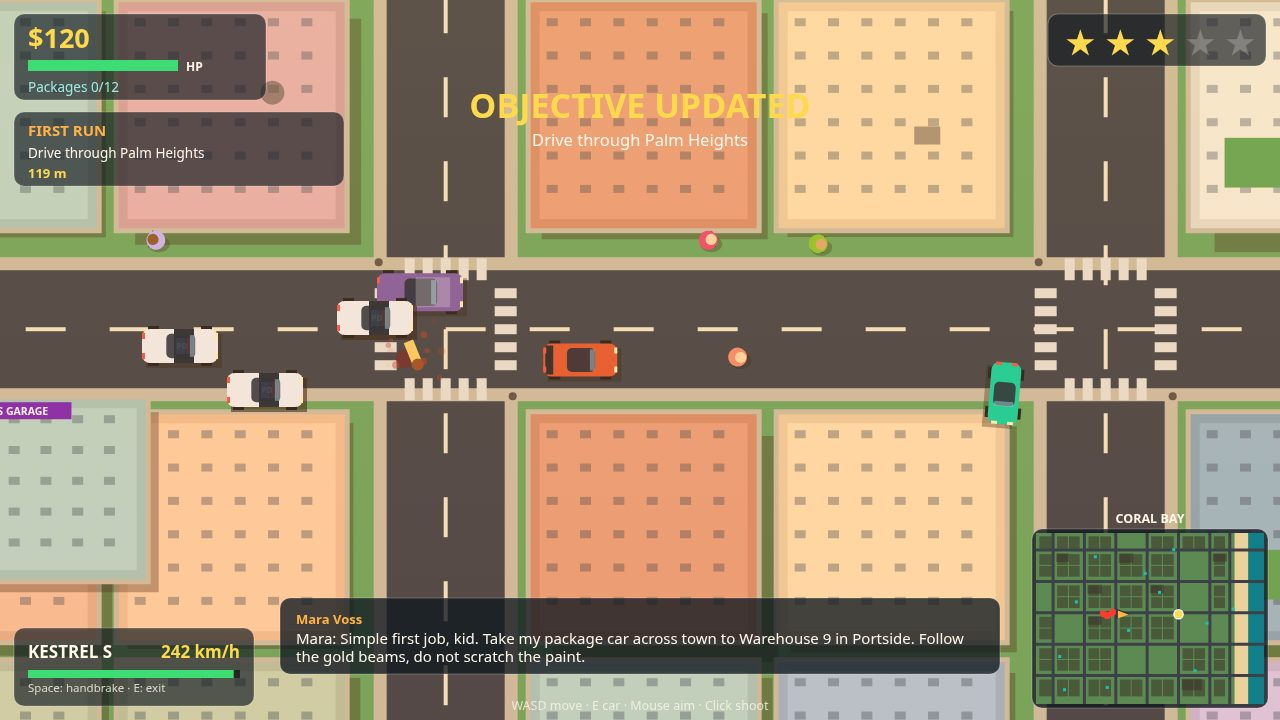
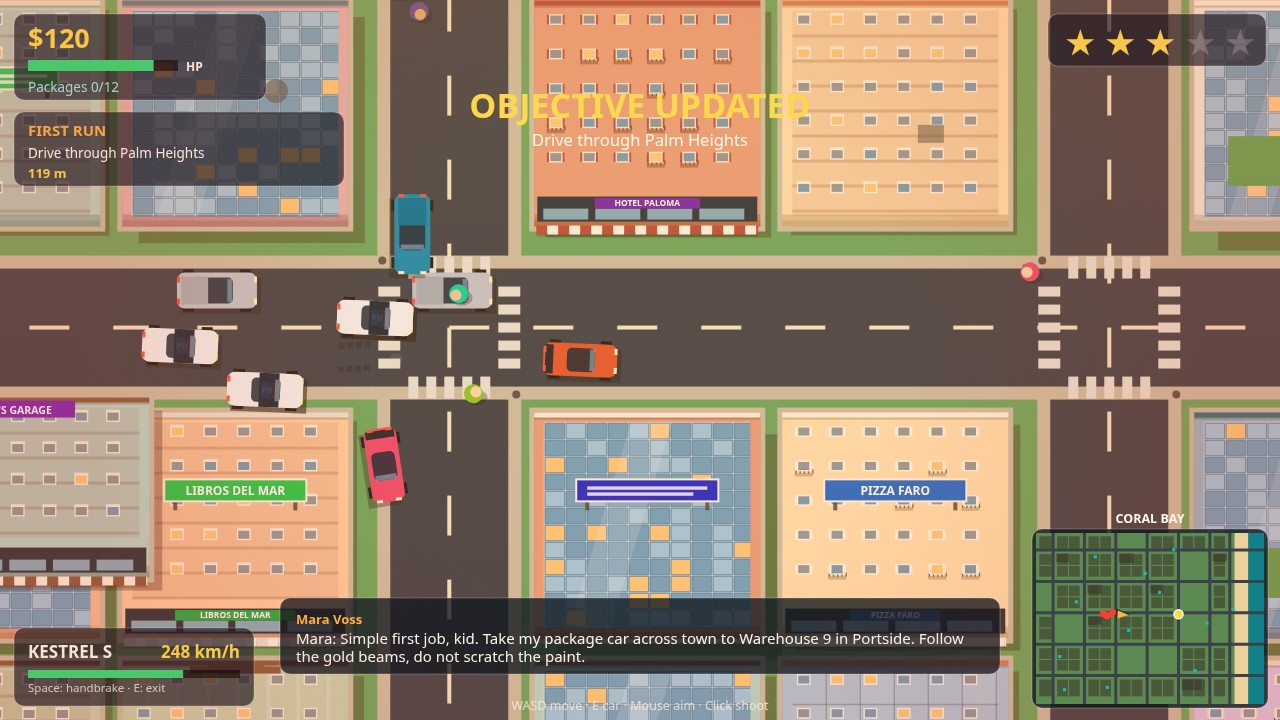
Façade richness + traffic flow pass: styled buildings, shopfronts, beach props, proportional traffic following

diff --git a/game/src/render.js b/game/src/render.js
@@ -112,23 +112,172 @@ export function createRenderer(canvas) {
     }
   }
 
+  // Per-window / per-pane variety from a position hash — deterministic,
+  // no rng, no wall clock.
+  function winHash(x, y) {
+    let h = (Math.floor(x) * 374761393 + Math.floor(y) * 668265263) | 0;
+    h = Math.imul(h ^ (h >>> 13), 1274126177);
+    return (h ^ (h >>> 16)) >>> 0;
+  }
+
+  function drawProps(state, l, t, r, b) {
+    for (const prop of state.city.props || []) {
+      if (prop.x < l - 60 || prop.x > r + 60 || prop.y < t - 60 || prop.y > b + 60) continue;
+      if (prop.kind === 'umbrella') {
+        // Towel beside the umbrella.
+        ctx.save();
+        ctx.translate(prop.x + prop.towelSide * 17, prop.y + 13);
+        ctx.rotate(prop.towelAngle);
+        rect(-13, -6, 26, 12, `hsl(${prop.towelHue} 65% 62%)`);
+        rect(-13, -2, 26, 4, 'rgba(255,255,255,0.55)');
+        ctx.restore();
+        circle(prop.x + 3, prop.y + 4, 13, 'rgba(60,35,20,0.22)');
+        circle(prop.x, prop.y, 13, `hsl(${prop.hue} 78% 58%)`);
+        ctx.fillStyle = 'rgba(255,255,255,0.5)';
+        ctx.beginPath();
+        ctx.moveTo(prop.x, prop.y - 13);
+        ctx.lineTo(prop.x + 11, prop.y + 7);
+        ctx.lineTo(prop.x - 11, prop.y + 7);
+        ctx.fill();
+        circle(prop.x, prop.y, 3.4, '#ffffff');
+      } else if (prop.kind === 'boat') {
+        ctx.save();
+        ctx.translate(prop.x, prop.y);
+        ctx.rotate(prop.angle);
+        ctx.fillStyle = 'rgba(10,50,60,0.3)';
+        ctx.beginPath(); ctx.ellipse(3, 4, prop.len / 2, 10, 0, 0, Math.PI * 2); ctx.fill();
+        ctx.fillStyle = `hsl(${prop.hue} 55% 88%)`;
+        ctx.beginPath(); ctx.ellipse(0, 0, prop.len / 2, 9.5, 0, 0, Math.PI * 2); ctx.fill();
+        ctx.fillStyle = `hsl(${prop.hue} 70% 52%)`;
+        ctx.fillRect(-prop.len / 2 + 3, -2.2, prop.len - 6, 4.4);
+        rect(-6, -5, 15, 10, '#f4f1e8');
+        rect(-3, -3.4, 6, 6.8, 'rgba(40,80,110,0.8)');
+        ctx.restore();
+      }
+    }
+  }
+
   function drawBuildings(state, l, t, r, b) {
+    const night = state.phase === PHASE_NIGHT;
     for (const bd of state.city.buildings) {
       if (bd.x + bd.w < l - 60 || bd.x > r + 60 || bd.y + bd.h < t - 60 || bd.y > b + 60) continue;
       const sh = 6 + bd.height * 0.16;
       rect(bd.x + sh, bd.y + sh, bd.w, bd.h, 'rgba(60,35,20,0.35)');
       rect(bd.x - 5, bd.y - 5, bd.w + 10, bd.h + 10, PALETTE.sidewalk);
-      rect(bd.x, bd.y, bd.w, bd.h, bd.color);
-      const inset = 9;
-      rect(bd.x + inset, bd.y + inset, bd.w - inset * 2, bd.h - inset * 2, shade(bd.color, 18));
-      // Window grid; lit gold at night.
-      const cols = Math.max(2, Math.floor(bd.w / 34));
-      const rows = Math.max(2, Math.floor(bd.h / 34));
-      for (let cx = 0; cx < cols; cx += 1) {
-        for (let cy = 0; cy < rows; cy += 1) {
-          const lit = ((cx * 7 + cy * 13 + bd.windows) % 5) === 0;
-          ctx.fillStyle = state.phase === PHASE_NIGHT && lit ? '#ffd873' : 'rgba(40,60,80,0.35)';
-          ctx.fillRect(bd.x + 16 + cx * ((bd.w - 26) / cols), bd.y + 16 + cy * ((bd.h - 26) / rows), 11, 8);
+      // Two-tone body: deeper base, lighter upper field.
+      rect(bd.x, bd.y, bd.w, bd.h, shade(bd.color, -16));
+      rect(bd.x, bd.y, bd.w, bd.h - 12, shade(bd.color, 16));
+      // Cornice along the top edge, plinth along the bottom.
+      rect(bd.x, bd.y, bd.w, 5, bd.trim);
+      rect(bd.x, bd.y + 5, bd.w, 2, 'rgba(0,0,0,0.18)');
+      rect(bd.x, bd.y + bd.h - 6, bd.w, 6, shade(bd.color, -34));
+
+      const shopH = bd.shop ? 30 : 0;
+      const fx = bd.x + 10; const fy = bd.y + 10;
+      const fw = bd.w - 20; const fh = bd.h - 20 - shopH;
+      const style = bd.style || 'slab';
+
+      if (style === 'glass') {
+        // Near-full glazing: glass field, mullions, diagonal shine.
+        rect(fx, fy, fw, fh, night ? '#274b63' : '#4d7d9c');
+        const px = 21; const py = 17;
+        for (let gx = fx; gx < fx + fw; gx += px) {
+          for (let gy = fy; gy < fy + fh; gy += py) {
+            const pw = Math.min(px - 2.5, fx + fw - gx - 1);
+            const ph = Math.min(py - 2.5, fy + fh - gy - 1);
+            if (pw < 4 || ph < 4) continue;
+            const wh = winHash(gx, gy);
+            const lit = night ? wh % 100 < 34 : wh % 100 < 9;
+            ctx.fillStyle = lit ? (night ? '#ffd873' : '#ffca7a') : (wh % 3 === 0 ? 'rgba(190,228,248,0.75)' : 'rgba(140,195,225,0.55)');
+            ctx.fillRect(gx + 1.2, gy + 1.2, pw, ph);
+          }
+        }
+        ctx.strokeStyle = 'rgba(225,242,252,0.5)';
+        ctx.lineWidth = 1.4;
+        for (let gx = fx; gx <= fx + fw; gx += px) { ctx.beginPath(); ctx.moveTo(gx, fy); ctx.lineTo(gx, fy + fh); ctx.stroke(); }
+        for (let gy = fy; gy <= fy + fh; gy += py) { ctx.beginPath(); ctx.moveTo(fx, gy); ctx.lineTo(fx + fw, gy); ctx.stroke(); }
+        ctx.fillStyle = 'rgba(255,255,255,0.16)';
+        ctx.beginPath();
+        ctx.moveTo(fx + fw * 0.12, fy + fh);
+        ctx.lineTo(fx + fw * 0.42, fy);
+        ctx.lineTo(fx + fw * 0.62, fy);
+        ctx.lineTo(fx + fw * 0.32, fy + fh);
+        ctx.fill();
+      } else {
+        if (style === 'brick') {
+          // Horizontal floor bands.
+          ctx.fillStyle = 'rgba(120,52,32,0.20)';
+          for (let gy = fy + 24; gy < fy + fh; gy += 25) ctx.fillRect(fx, gy, fw, 3);
+          rect(fx, fy, fw, fh, 'rgba(150,70,45,0.10)');
+        } else if (style === 'deco') {
+          // Vertical fin stripes + stepped crown.
+          ctx.fillStyle = 'rgba(255,255,255,0.20)';
+          for (let gx = fx + 14; gx < fx + fw - 6; gx += 30) ctx.fillRect(gx, fy, 4, fh);
+          const cw = Math.min(fw * 0.44, 92);
+          rect(bd.x + bd.w / 2 - cw / 2, bd.y + 6, cw, 7, bd.trim);
+          rect(bd.x + bd.w / 2 - cw * 0.32, bd.y + 1.5, cw * 0.64, 6, bd.trim);
+        } else if (style === 'slab') {
+          // Panel seams + a whisper of per-panel tint.
+          for (let gx = fx; gx < fx + fw; gx += 34) {
+            for (let gy = fy; gy < fy + fh; gy += 34) {
+              if (winHash(gx, gy) % 3 === 0) rect(gx, gy, Math.min(34, fx + fw - gx), Math.min(34, fy + fh - gy), 'rgba(255,255,255,0.07)');
+            }
+          }
+          ctx.strokeStyle = 'rgba(60,55,50,0.28)';
+          ctx.lineWidth = 1.4;
+          for (let gx = fx + 34; gx < fx + fw; gx += 34) { ctx.beginPath(); ctx.moveTo(gx, fy); ctx.lineTo(gx, fy + fh); ctx.stroke(); }
+          for (let gy = fy + 34; gy < fy + fh; gy += 34) { ctx.beginPath(); ctx.moveTo(fx, gy); ctx.lineTo(fx + fw, gy); ctx.stroke(); }
+        }
+        // Framed windows with per-window variety.
+        const cols = Math.max(2, Math.floor(bd.w / 34));
+        const rows = Math.max(2, Math.floor((bd.h - shopH) / 34));
+        for (let cx = 0; cx < cols; cx += 1) {
+          for (let cy = 0; cy < rows; cy += 1) {
+            const wx = bd.x + 16 + cx * ((bd.w - 26) / cols);
+            const wy = bd.y + 15 + cy * ((bd.h - shopH - 24) / rows);
+            const wh = winHash(wx, wy);
+            const lit = night ? wh % 100 < 33 : wh % 100 < 11;
+            if (style === 'stucco' && bd.balcony && cy > 0 && wh % 3 === 0) {
+              // Balcony slab with little rails under this window.
+              rect(wx - 3.5, wy + 11, 18, 3.4, shade(bd.color, -30));
+              ctx.fillStyle = 'rgba(50,45,40,0.65)';
+              for (let rx = 0; rx < 5; rx += 1) ctx.fillRect(wx - 3 + rx * 4.2, wy + 7.5, 1.4, 4);
+              rect(wx - 3.5, wy + 6.8, 18, 1.6, 'rgba(50,45,40,0.65)');
+            }
+            if (style === 'stucco') { // shutters in the trim colour
+              rect(wx - 3.4, wy - 0.6, 2.8, 9.4, bd.trim);
+              rect(wx + 11.4, wy - 0.6, 2.8, 9.4, bd.trim);
+            }
+            if (style === 'brick') rect(wx - 1.6, wy - 3, 14.2, 2.6, 'rgba(255,244,225,0.75)'); // lintel
+            rect(wx - 1.4, wy - 1.4, 13.8, 10.8, 'rgba(255,250,238,0.85)'); // frame
+            ctx.fillStyle = lit ? (night ? '#ffd873' : '#ffca7a') : (wh % 4 === 0 ? 'rgba(96,140,168,0.85)' : 'rgba(40,60,80,0.5)');
+            ctx.fillRect(wx, wy, 11, 8);
+          }
+        }
+      }
+
+      // Shopfront along the bottom edge: dark band, wide panes, striped
+      // awning projecting onto the sidewalk, sign board when named.
+      if (bd.shop) {
+        const sy = bd.y + bd.h - shopH;
+        rect(bd.x + 3, sy, bd.w - 6, shopH - 5, '#26313a');
+        ctx.fillStyle = night ? 'rgba(255,205,110,0.85)' : 'rgba(165,215,235,0.75)';
+        const panes = Math.max(2, Math.floor(bd.w / 46));
+        for (let pi = 0; pi < panes; pi += 1) {
+          ctx.fillRect(bd.x + 9 + pi * ((bd.w - 18) / panes), sy + 12, (bd.w - 18) / panes - 7, shopH - 19);
+        }
+        for (let ax = 0; ax < bd.w - 4; ax += 11) { // awning stripes
+          ctx.fillStyle = (ax / 11) % 2 === 0 ? bd.trim : '#fff6e8';
+          ctx.fillRect(bd.x + 2 + ax, bd.y + bd.h - 1, Math.min(11, bd.w - 4 - ax), 9);
+        }
+        rect(bd.x + 2, bd.y + bd.h + 8, bd.w - 4, 2, 'rgba(0,0,0,0.2)');
+        if (bd.signText) {
+          const sw = Math.min(bd.w - 14, bd.signText.length * 7.6 + 14);
+          rect(bd.x + (bd.w - sw) / 2, sy + 1.5, sw, 10.5, `hsl(${bd.signHue} 68% 40%)`);
+          ctx.fillStyle = '#ffffff';
+          ctx.font = `bold 8.5px ${FONT}`;
+          ctx.textAlign = 'center';
+          ctx.fillText(bd.signText, bd.x + bd.w / 2, sy + 9.6);
         }
       }
       // Rooftop details.
@@ -136,6 +285,27 @@ export function createRenderer(canvas) {
       if (bd.roof === 'ac') ctx.fillRect(bd.x + bd.w * 0.6, bd.y + bd.h * 0.55, 26, 18);
       else if (bd.roof === 'tank') circle(bd.x + bd.w * 0.68, bd.y + bd.h * 0.4, 12, 'rgba(90,80,70,0.6)');
       else if (bd.roof === 'garden') rect(bd.x + bd.w * 0.15, bd.y + bd.h * 0.6, bd.w * 0.3, bd.h * 0.22, '#5da653');
+      else if (bd.roof === 'sign') {
+        // Rooftop billboard: posts, board, name or a bold colour block.
+        const bw2 = Math.min(bd.w * 0.62, 150);
+        const bx2 = bd.x + (bd.w - bw2) / 2;
+        const by2 = bd.y + bd.h * 0.3;
+        ctx.fillStyle = 'rgba(70,60,52,0.8)';
+        ctx.fillRect(bx2 + 8, by2 + 20, 4, 10);
+        ctx.fillRect(bx2 + bw2 - 12, by2 + 20, 4, 10);
+        rect(bx2 - 2, by2 - 2, bw2 + 4, 24, '#fff6e8');
+        rect(bx2, by2, bw2, 20, `hsl(${bd.signHue} 72% 46%)`);
+        if (bd.signText) {
+          ctx.fillStyle = '#ffffff';
+          ctx.font = `bold ${Math.min(12, bw2 / Math.max(6, bd.signText.length) * 1.7)}px ${FONT}`;
+          ctx.textAlign = 'center';
+          ctx.fillText(bd.signText, bx2 + bw2 / 2, by2 + 14.5);
+        } else {
+          ctx.fillStyle = 'rgba(255,255,255,0.85)';
+          ctx.fillRect(bx2 + 10, by2 + 6, bw2 - 20, 3.4);
+          ctx.fillRect(bx2 + 10, by2 + 12, bw2 - 34, 3.4);
+        }
+      }
       else if (bd.roof === 'helipad') {
         ctx.strokeStyle = 'rgba(255,255,255,0.75)'; ctx.lineWidth = 3;
         ctx.beginPath(); ctx.arc(bd.x + bd.w / 2, bd.y + bd.h / 2, 20, 0, Math.PI * 2); ctx.stroke();
@@ -291,6 +461,7 @@ export function createRenderer(canvas) {
 
     drawGround(state, l, t, r, b);
     drawRoads(state, l, t, r, b);
+    drawProps(state, l, t, r, b);
 
     // District names painted on the ground.
     ctx.fillStyle = 'rgba(255,248,230,0.20)';

diff --git a/game/src/vehicles.js b/game/src/vehicles.js
@@ -133,36 +133,68 @@ export function updateTrafficCar(state, car, dt) {
   const want = Math.atan2(ty - car.y, tx - car.x);
   const steer = clamp(angleDelta(car.angle, want) * 2.2, -1, 1);
 
-  // Brake for obstacles in front: other cars, pedestrians, the player.
-  let blocked = false;
+  // Proportional following: find the nearest obstacle ahead in the lane
+  // corridor and measure the bumper-to-bumper gap using model lengths.
   const fx = Math.cos(car.angle); const fy = Math.sin(car.angle);
-  const ahead = (ox, oy, range) => {
+  let gap = Infinity;
+  const scan = (ox, oy, halfLen) => {
     const dx = ox - car.x; const dy = oy - car.y;
     const f = dx * fx + dy * fy;
     const side = Math.abs(-dx * fy + dy * fx);
-    return f > 6 && f < range && side < 30;
+    // Wider corridor at very close range, so crossing traffic inside an
+    // intersection is seen too, not just same-lane traffic.
+    if (f > 0 && side < (f < 55 ? 46 : 30)) {
+      const g = f - car.model.length / 2 - halfLen;
+      if (g < gap) gap = g;
+    }
   };
   for (const other of state.cars) {
-    if (other !== car && !other.dead && ahead(other.x, other.y, 95)) { blocked = true; break; }
+    if (other !== car && !other.dead) scan(other.x, other.y, other.model.length / 2);
   }
-  if (!blocked) for (const p of state.peds) {
-    if (!p.dead && ahead(p.x, p.y, 80)) { blocked = true; break; }
+  for (const p of state.peds) {
+    if (!p.dead) scan(p.x, p.y, 9);
   }
-  if (!blocked && state.player.car !== car && ahead(state.player.x, state.player.y, 85)) blocked = true;
+  if (state.player.car !== car) {
+    const pc = state.player.car;
+    scan(state.player.x, state.player.y, pc ? pc.model.length / 2 : 10);
+  }
 
-  const throttle = blocked ? (forwardSpeed(car) > 10 ? -1 : 0) : 0.75;
-  if (blocked && car.honkAt < state.time - 2.5) { car.honkAt = state.time; state.events.push('horn'); }
+  // Each car keeps its own preferred stop gap (from its id) so queues
+  // stagger; target speed rises smoothly to cruise at ~170 px of gap.
+  const stopGap = 24 + (car.id % 21);
+  const fwd = forwardSpeed(car);
+  let throttle;
+  if (gap === Infinity) {
+    throttle = fwd < car.cruise ? 0.75 : 0;
+  } else if (gap < stopGap * 0.45 && fwd <= 12) {
+    throttle = -0.55; // critically close: creep back, don't stack
+  } else {
+    const k = clamp((gap - stopGap) / 170, 0, 1);
+    const target = car.cruise * (k * k * (3 - 2 * k));
+    if (fwd < target - 8) throttle = 0.75;
+    else if (fwd > target + 8) throttle = -clamp((fwd - target) / 130, 0.22, 0.85);
+    else throttle = 0;
+    if (gap < stopGap + 26 && fwd > 24 && car.honkAt < state.time - 2.5) {
+      car.honkAt = state.time; state.events.push('horn');
+    }
+  }
   driveCar(car, dt, throttle * (car.cruise / 200), steer, false);
 }
 
 /** Spawn traffic and parked cars across the city at world creation. */
 export function spawnCars(state) {
   const rng = state.rng;
-  // Moving traffic on random intersections.
+  // Moving traffic on random intersections, with spawn separation: retry a
+  // few times so a fresh car never starts stacked on an already-placed one.
   for (let i = 0; i < 26; i += 1) {
-    const vx = V_ROADS[Math.floor(rng() * V_ROADS.length)];
-    const hy = H_ROADS[Math.floor(rng() * H_ROADS.length)];
-    const car = createCar(rng, Math.floor(rng() * 5), vx + randOff(rng), hy + randOff(rng), Math.floor(rng() * 4) * Math.PI / 2, 'traffic');
+    let car = null;
+    for (let attempt = 0; attempt < 7; attempt += 1) {
+      const vx = V_ROADS[Math.floor(rng() * V_ROADS.length)];
+      const hy = H_ROADS[Math.floor(rng() * H_ROADS.length)];
+      car = createCar(rng, Math.floor(rng() * 5), vx + randOff(rng), hy + randOff(rng), Math.floor(rng() * 4) * Math.PI / 2, 'traffic');
+      const clear = state.cars.every((o) => dist(car.x, car.y, o.x, o.y) >= 110);
+      if (clear || attempt === 6) break;
+    }
     nextNavTarget(rng, car);
     state.cars.push(car);
   }

diff --git a/game/src/city.js b/game/src/city.js
@@ -14,6 +14,22 @@ export const WATER_X = 4470;
 
 const ROOF_DETAILS = ['ac', 'tank', 'garden', 'sign', 'plain', 'helipad'];
 
+// Deterministic integer hash of a position. Façade identity and props are
+// derived from this — never from the shared world rng — so adding them does
+// not shift a single existing rng draw or change the city layout.
+export function hash2(x, y) {
+  let h = (Math.floor(x) * 374761393 + Math.floor(y) * 668265263) | 0;
+  h = Math.imul(h ^ (h >>> 13), 1274126177);
+  return (h ^ (h >>> 16)) >>> 0;
+}
+
+const TRIM_TONES = ['#fff3e0', '#f4e1c1', '#e8e3d9', '#2e6f73', '#b84a39', '#5b7d8a', '#d97b4f', '#8a5a3b'];
+const SHOP_NAMES = [
+  'CORAL CAFÉ', 'TACO SOL', 'HOTEL PALOMA', 'SURF & SAND', 'FARMACIA BAY',
+  'BARBERÍA LUIS', 'MERCADO CORAL', 'PIZZA FARO', 'LIBROS DEL MAR', 'GYM ARENA',
+  'HELADERÍA NUBE', 'BAR LA BRISA', 'PANADERÍA SOL', 'FLORISTERÍA LIA',
+];
+
 export function districtAt(x, y) {
   for (const d of DISTRICTS) {
     if (x >= d.x && x <= d.x + d.w && y >= d.y && y <= d.y + d.h) return d.name;
@@ -22,7 +38,7 @@ export function districtAt(x, y) {
 }
 
 function makeBuilding(rng, x, y, w, h, tall, label) {
-  return {
+  const b = {
     x, y, w, h,
     height: tall ? randRange(rng, 55, 120) : randRange(rng, 16, 52),
     color: pick(rng, BUILDING_COLORS),
@@ -31,6 +47,15 @@ function makeBuilding(rng, x, y, w, h, tall, label) {
     label: label || '',
     signHue: Math.floor(randRange(rng, 0, 360)),
   };
+  // Façade identity from a position hash (no rng draws — layout unchanged).
+  const fh = hash2(x, y);
+  if (tall) b.style = fh % 5 < 3 ? 'glass' : 'deco';
+  else b.style = ['stucco', 'brick', 'slab'][fh % 3];
+  b.trim = TRIM_TONES[(fh >>> 3) % TRIM_TONES.length];
+  b.shop = tall ? (fh >>> 5) % 100 < 10 : (fh >>> 5) % 100 < 45;
+  b.balcony = b.style === 'stucco' && ((fh >>> 7) % 100) < 55;
+  b.signText = b.shop && ((fh >>> 9) % 100) < 65 ? SHOP_NAMES[(fh >>> 11) % SHOP_NAMES.length] : '';
+  return b;
 }
 
 export function generateCity(rng) {
@@ -99,7 +124,35 @@ export function generateCity(rng) {
   landmarks.garage.kind = 'garage';
   buildings.push(...Object.values(landmarks));
 
-  return { buildings, parks, lots, trees, lights, landmarks };
+  // Beach props, built last from coordinate hashes only (no rng draws):
+  // umbrellas with towels along the sand, boats anchored in the water.
+  const props = [];
+  for (let y = 240; y < WORLD.height - 160; y += 175) {
+    const ph = hash2(BEACH_X + 90, y);
+    if (ph % 100 < 22) continue; // leave some stretches of sand empty
+    const ux = BEACH_X + 46 + (ph % 170);
+    props.push({
+      kind: 'umbrella', x: ux, y,
+      hue: (ph >>> 3) % 360,
+      towelHue: (ph >>> 7) % 360,
+      towelAngle: ((ph >>> 11) % 8) * (Math.PI / 4),
+      towelSide: (ph >>> 13) % 2 === 0 ? 1 : -1,
+    });
+  }
+  for (let i = 0; i < 8; i += 1) {
+    const by = 260 + i * ((WORLD.height - 520) / 7);
+    const bh = hash2(WATER_X + 120, Math.floor(by));
+    props.push({
+      kind: 'boat',
+      x: WATER_X + 70 + (bh % 190),
+      y: by + ((bh >>> 5) % 90) - 45,
+      angle: ((bh >>> 9) % 628) / 100,
+      hue: (bh >>> 15) % 360,
+      len: 44 + (bh >>> 21) % 26,
+    });
+  }
+
+  return { buildings, parks, lots, trees, lights, landmarks, props };
 }
 
 /** Is this point on any road (either direction of travel)? */
